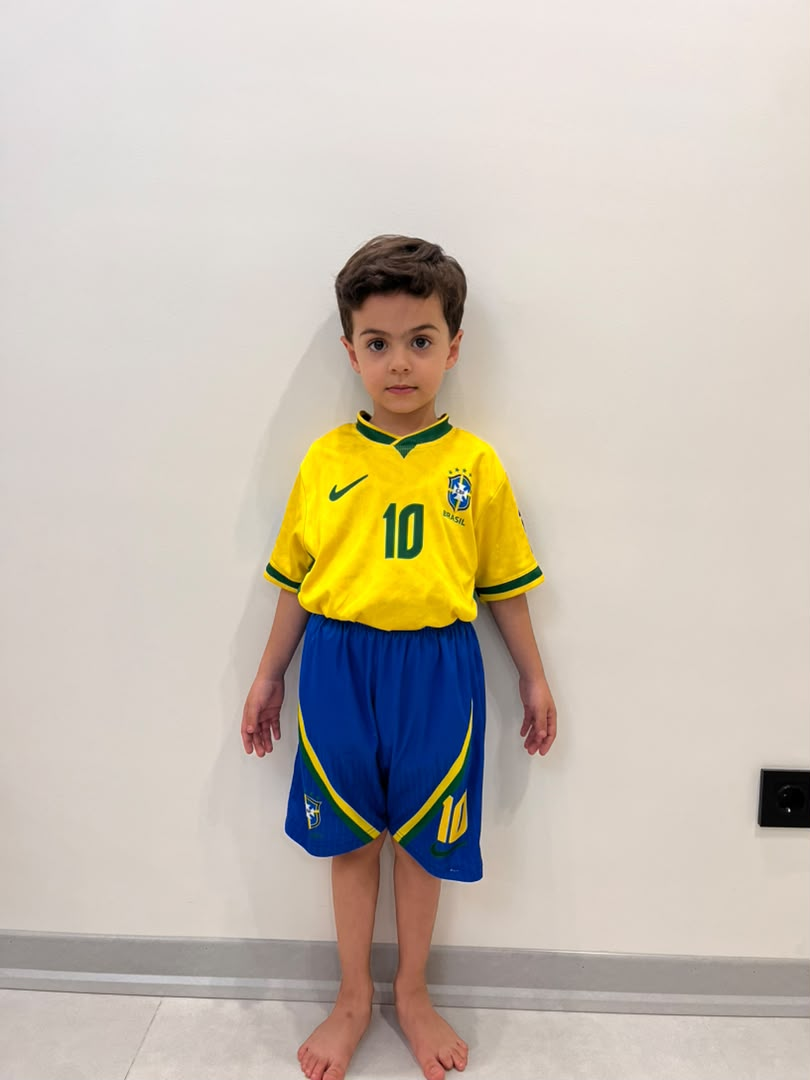
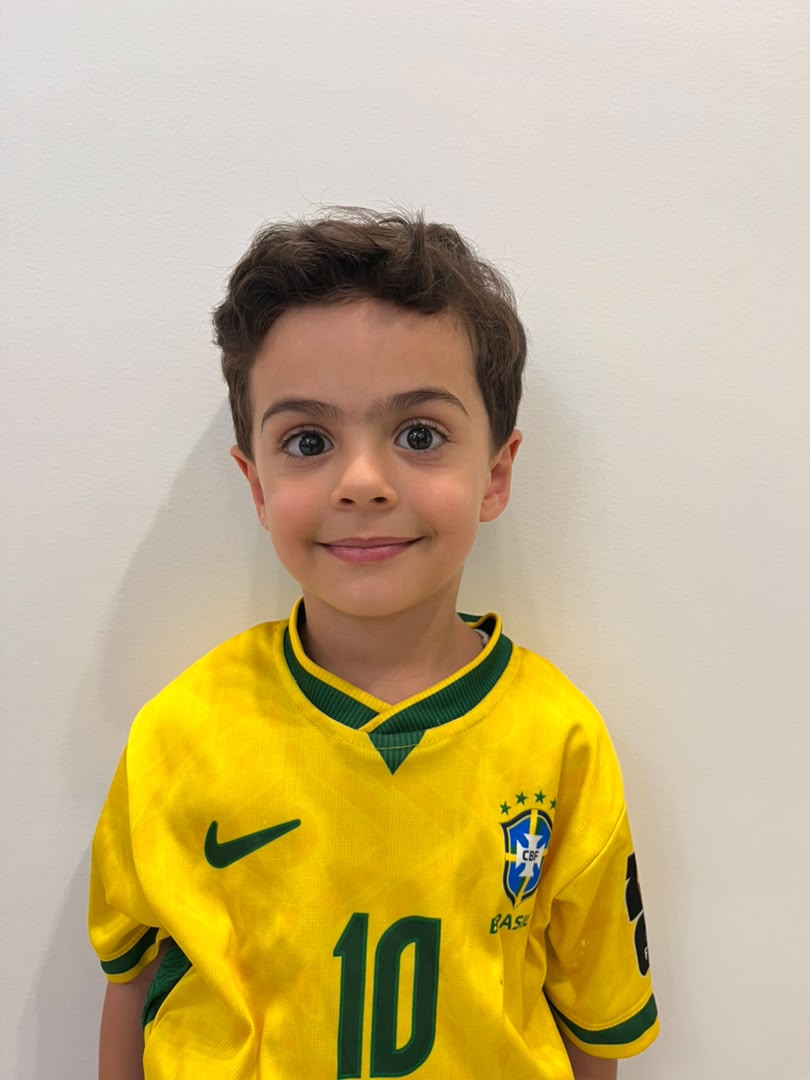
Use Parsa's head-and-shoulders photo and crop the main photo to a square face
Claude-Session: https://claude.ai/code/session_01QnVELxGDDRhAZ2EQ1GgXYL

diff --git a/media.js b/media.js
@@ -20,6 +20,11 @@
       return files;
     }catch(e){return c?c.files:null;}
   }
+  // round portrait wants a square face crop: take the upper middle of the photo
+  function squareFace(src){return new Promise(res=>{const im=new Image();im.onload=()=>{try{
+      const w=im.naturalWidth,h=im.naturalHeight,side=Math.min(w*.72,h*.72),sx=(w-side)/2,sy=Math.min(Math.max(0,h*.17),h-side);
+      const c=document.createElement('canvas');c.width=c.height=256;c.getContext('2d').drawImage(im,sx,sy,side,side,0,0,256,256);
+      res(c.toDataURL('image/jpeg',.88));}catch(e){res(null);}};im.onerror=()=>res(null);im.src=src;});}
   const url=f=>enc(f.path)+'?v='+f.sha.slice(0,8);
 
   async function apply(){
@@ -31,19 +36,22 @@
     /* players */
     const groups={};
     files.filter(f=>IMG.test(f.path)).forEach(f=>{const m=f.path.match(/^photos\/([^/]+)\/[^/]+$/);if(m)(groups[m[1]]=groups[m[1]]||[]).push(f);});
-    Object.keys(groups).sort().forEach(name=>{
+    for(const name of Object.keys(groups).sort()){
       const imgs=groups[name].sort(byName);
       let p=S.players.find(q=>q.name===name);
       if(!p){p=mkPlayer(name,'small','math',Math.floor(Math.random()*5),0,'none');S.players.push(p);changed=true;}
       const main=imgs[0]?url(imgs[0]):null, joy=imgs[1]?url(imgs[1]):null;
       // repo photos replace only what came from the repo before (or nothing); a photo picked on the phone wins
-      if(main&&(!p.photo||p.photo===p.repoPhoto)&&p.photo!==main){p.photo=main;p._img=null;changed=true;}
-      if(!main&&p.repoPhoto&&p.photo===p.repoPhoto){p.photo=null;p._img=null;changed=true;}
-      p.repoPhoto=main;
+      const fromRepo=!p.photo||p.photo===p.repoPhoto||(p.repoPhotoData&&p.photo===p.repoPhotoData);
+      if(main&&fromRepo&&(p.repoPhoto!==main||!p.photo)){
+        const d=await squareFace(main);
+        if(d){p.photo=d;p.repoPhotoData=d;p.repoPhoto=main;p._img=null;changed=true;}
+      }
+      if(!main&&p.repoPhoto){if(p.photo===p.repoPhotoData){p.photo=null;p._img=null;}p.repoPhoto=null;p.repoPhotoData=null;changed=true;}
       if(joy&&(!p.rewardPhoto||p.rewardPhoto===p.repoReward)&&p.rewardPhoto!==joy){p.rewardPhoto=joy;changed=true;}
       if(!joy&&p.repoReward&&p.rewardPhoto===p.repoReward){p.rewardPhoto=null;changed=true;}
       p.repoReward=joy;
-    });
+    }
 
     /* music */
     const songs=files.filter(f=>/^music\//.test(f.path)&&AUD.test(f.path)).sort(byName);

diff --git a/photos/README.md b/photos/README.md
@@ -5,7 +5,7 @@
 **قانون:**
 - برای هر بازیکن یک پوشه بسازید که اسمش همان اسم بازیکن در بازی باشد (مثلاً `پارسا`).
 - داخل پوشه، فایلها به ترتیب اسم خوانده میشوند:
-  - **عکس اول** (مثلاً `1.jpg`) = عکس اصلی (عکس دایرهای بالای صفحه). بهتر است عکس نزدیک صورت باشد.
+  - **عکس اول** (مثلاً `1.jpg`) = عکس اصلی (عکس دایرهای بالای صفحه). بهتر است عکس از سر و شانه باشد؛ بازی خودش وسطِ بالای عکس را مربع میبُرد.
   - **عکس دوم** (مثلاً `2.jpg`) = عکس شادی، که بعد از هر جواب درست بزرگ نشان داده میشود.
 - اگر بازیکنی با آن اسم در بازی نباشد، خودش ساخته میشود.
 - اگر روی گوشی برای بازیکن عکس دیگری انتخاب کنید، عکسِ روی گوشی برنده است.
